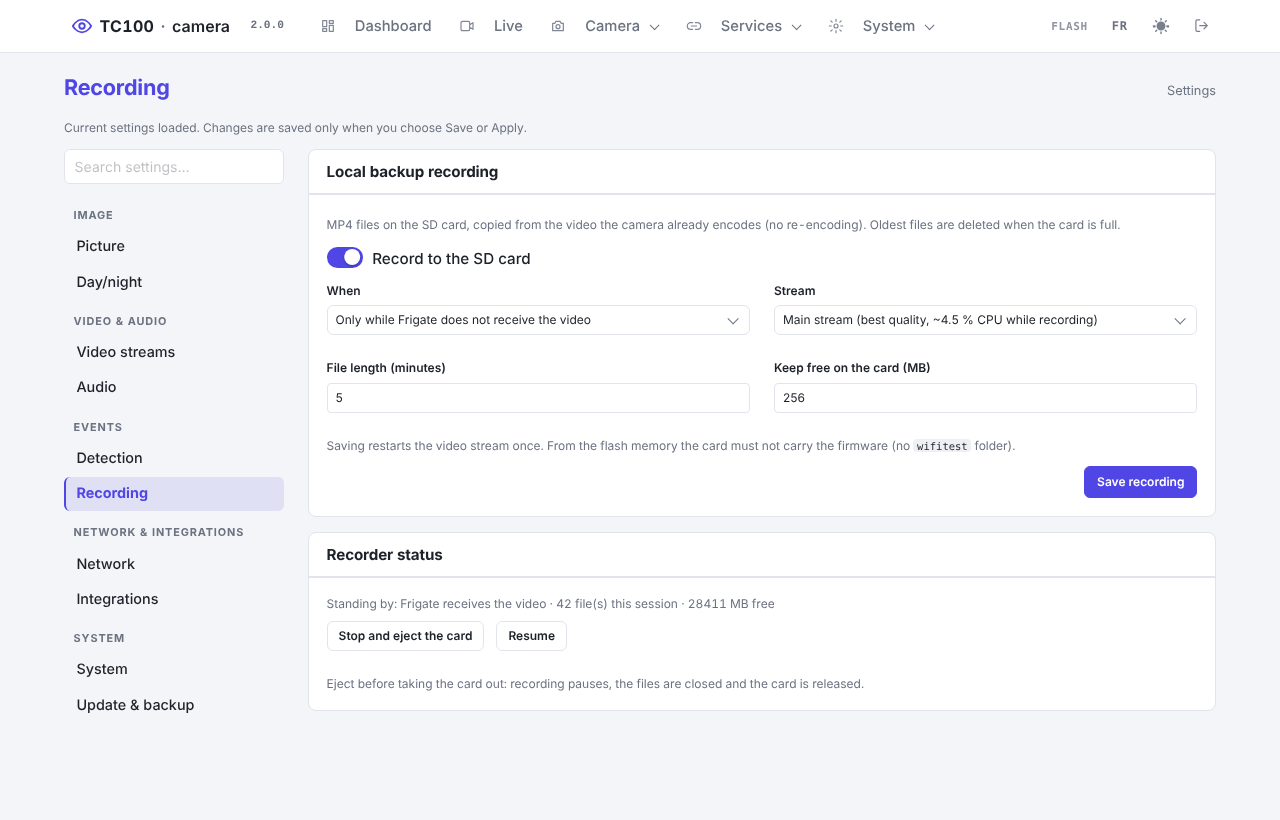
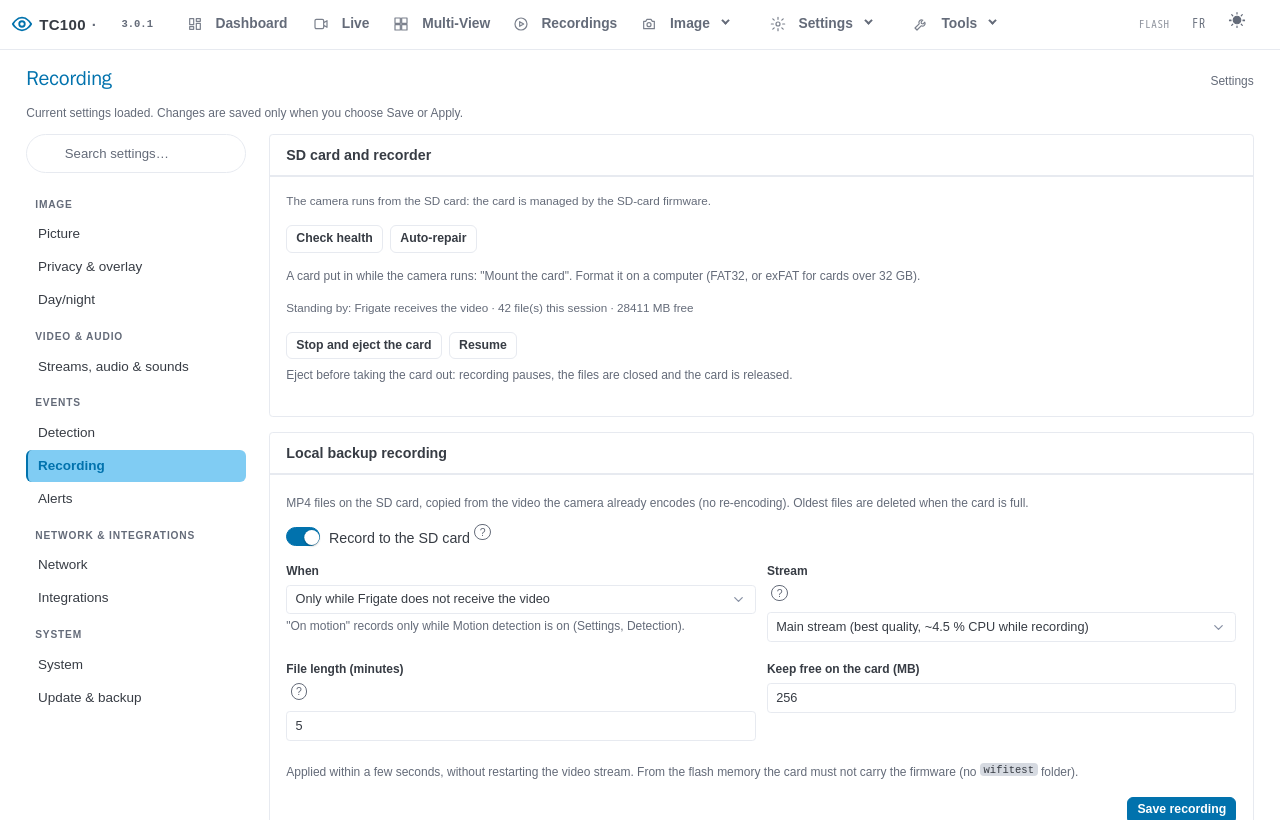
[docs] README screenshots: the Pico look of 3.0.1 (were 2.1); shots.py follows the current menu
All 18 images of docs/screenshots regenerated with src/webui/screenshots/shots.py
(Playwright, canned answers of mock/): the default Pico look since rc31, firmware
3.0.1 and kernel 6.6 in the mock data (they said 2.1.0 and 3.4.35). shots.py opens
Settings tabs through the menu entries (the #status button is gone).

diff --git a/src/webui/screenshots/mock.py b/src/webui/screenshots/mock.py
@@ -5,7 +5,7 @@ MOCKDIR=os.path.join(HERE,'mock')
 unknown=set()
 def J(o): return ('application/json', json.dumps(o).encode())
 def T(s,ct='text/plain'): return (ct, s.encode())
-STATUS={"sysusage":"CPU: 14% RAM: 21844/33280 kB","cpu":14,"ram_used_kb":21844,"ram_total_kb":33280,"ram_percent":65,"sd_used_kb":0,"sd_total_kb":0,"sd_percent":0,"perfprofile":"balanced","lum":"812","awb":"5200","ui_ultralite_mode":0,"web_mode":"full","security_hardening_mode":1,"mqtt_enabled":1,"mqtt_last_pub_ts":0,"mqtt_last_pub_ok":1,"default_password_active":0,"csrf_token":"aabbccdd","update_available":0,"update_latest_version":"n/a","current_version":"2.0.0","wifi_qual":78,"wifi_iface":"wlan0","frigate_live":"","storage":"flash"}
+STATUS={"sysusage":"CPU: 14% RAM: 21844/33280 kB","cpu":14,"ram_used_kb":21844,"ram_total_kb":33280,"ram_percent":65,"sd_used_kb":0,"sd_total_kb":0,"sd_percent":0,"perfprofile":"balanced","lum":"812","awb":"5200","ui_ultralite_mode":0,"web_mode":"full","security_hardening_mode":1,"mqtt_enabled":1,"mqtt_last_pub_ts":0,"mqtt_last_pub_ok":1,"default_password_active":0,"csrf_token":"aabbccdd","update_available":0,"update_latest_version":"n/a","current_version":"3.0.1","wifi_qual":78,"wifi_iface":"wlan0","frigate_live":"","storage":"flash"}
 _T0=time.time()
 def dash():
     # Counters that grow like a camera streaming ~1.2 Mbit/s with some load.
@@ -15,7 +15,7 @@ def dash():
     return {"up":183420+int(t),"load":"%.2f"%(0.6+0.2*math.sin(t/11)),"cpu":[1000000+busy,0,200000,5000000+idle,1000,0,500],
             "mem":[33280,4200+int(300*math.sin(t/13)),900,6100],"iface":"wlan0","net":[50000000+rx,900000000+tx],
             "wifi":[72+int(4*math.sin(t/6)),-58],"rtsp_clients":2,"sd_health":"unused"}
-DASHINFO={"hostname":"camera","ip":"192.0.2.10","mac":"00:00:5e:00:53:01","kernel":"3.4.35","firmware":"2.1.0","storage":"flash",
+DASHINFO={"hostname":"camera","ip":"192.0.2.10","mac":"00:00:5e:00:53:01","kernel":"6.6.0","firmware":"3.0.1","storage":"flash",
           "soc":"Anyka AK3918EV300","sensor":"SOI JXF23","wifi_chip":"Realtek RTL8188FU","ssid":"","rtsp_port":554,
           "main":{"codec":"h265","width":1920,"height":1080,"fps":16,"kbps":1200},"sub":{"codec":"h264","width":640,"height":360,"fps":8,"kbps":250},
           "jffs":[6144,1320],"sd":[0,0]}

diff --git a/src/webui/screenshots/shots.py b/src/webui/screenshots/shots.py
@@ -1,5 +1,6 @@
 """Screenshots of the web UI for README (docs/screenshots/), against canned CGI
 answers in mock/ (no camera; the live image is a test pattern).
+The default look (Pico, item 50, since rc31); engines.py shoots every page in both looks.
 Usage: python3 src/webui/screenshots/shots.py [out-dir]   (needs playwright)
 """
 import os, sys
@@ -22,8 +23,8 @@ def page(b, theme='light', lang='en', w=1280, h=820, mobile=False):
     pg.goto(U); pg.wait_for_timeout(2500)
     return pg
 def settings(pg, tab):
-    pg.evaluate("document.getElementById('status').click()"); pg.wait_for_timeout(1800)
-    pg.evaluate("document.querySelector('[data-tab=%s]').click()"%tab); pg.wait_for_timeout(1500)
+    # the Settings menu entries open settings.html at a tab (the old Settings button #status is gone)
+    pg.evaluate("document.querySelector('a.onpage[data-tab=%s]').click()"%tab); pg.wait_for_timeout(3200)
     pg.evaluate("window.scrollTo(0,0)")
 with sync_playwright() as p:
     b=p.chromium.launch()
@@ -44,8 +45,8 @@ with sync_playwright() as p:
     settings(pg,'tab-image'); pg.screenshot(path=OUT+'/settings-mobile.png')
     # SD mode: install-to-flash card
     mock.STATUS['storage']='sd'
-    json.dump({"ok":True,"state":"prepared","running":0,"log":"2026-10-16 09:12:03 prepare: flash checked, copying the original /usr (3.7 MB)…\n2026-10-16 09:12:41 prepare: DONE. Next: take the card out and run src/flash/build-flash-kit.sh on a computer (README).\n"},open(mock.MOCKDIR+'/flashinstall.cgi.status.json','w'))
-    json.dump({"ok":True,"state":"idle","current":"2.0.0","staged":"","rollback_to":""},open(mock.MOCKDIR+'/update.cgi.status.json','w'))
+    json.dump({"ok":True,"state":"idle","running":0,"log":""},open(mock.MOCKDIR+'/flashinstall.cgi.status.json','w'))
+    json.dump({"ok":True,"state":"idle","current":"3.0.1","staged":"","rollback_to":""},open(mock.MOCKDIR+'/update.cgi.status.json','w'))
     pg=page(b); settings(pg,'tab-backup'); pg.screenshot(path=OUT+'/settings-install-to-flash.png')
     b.close()
 print(sorted(mock.unknown))
